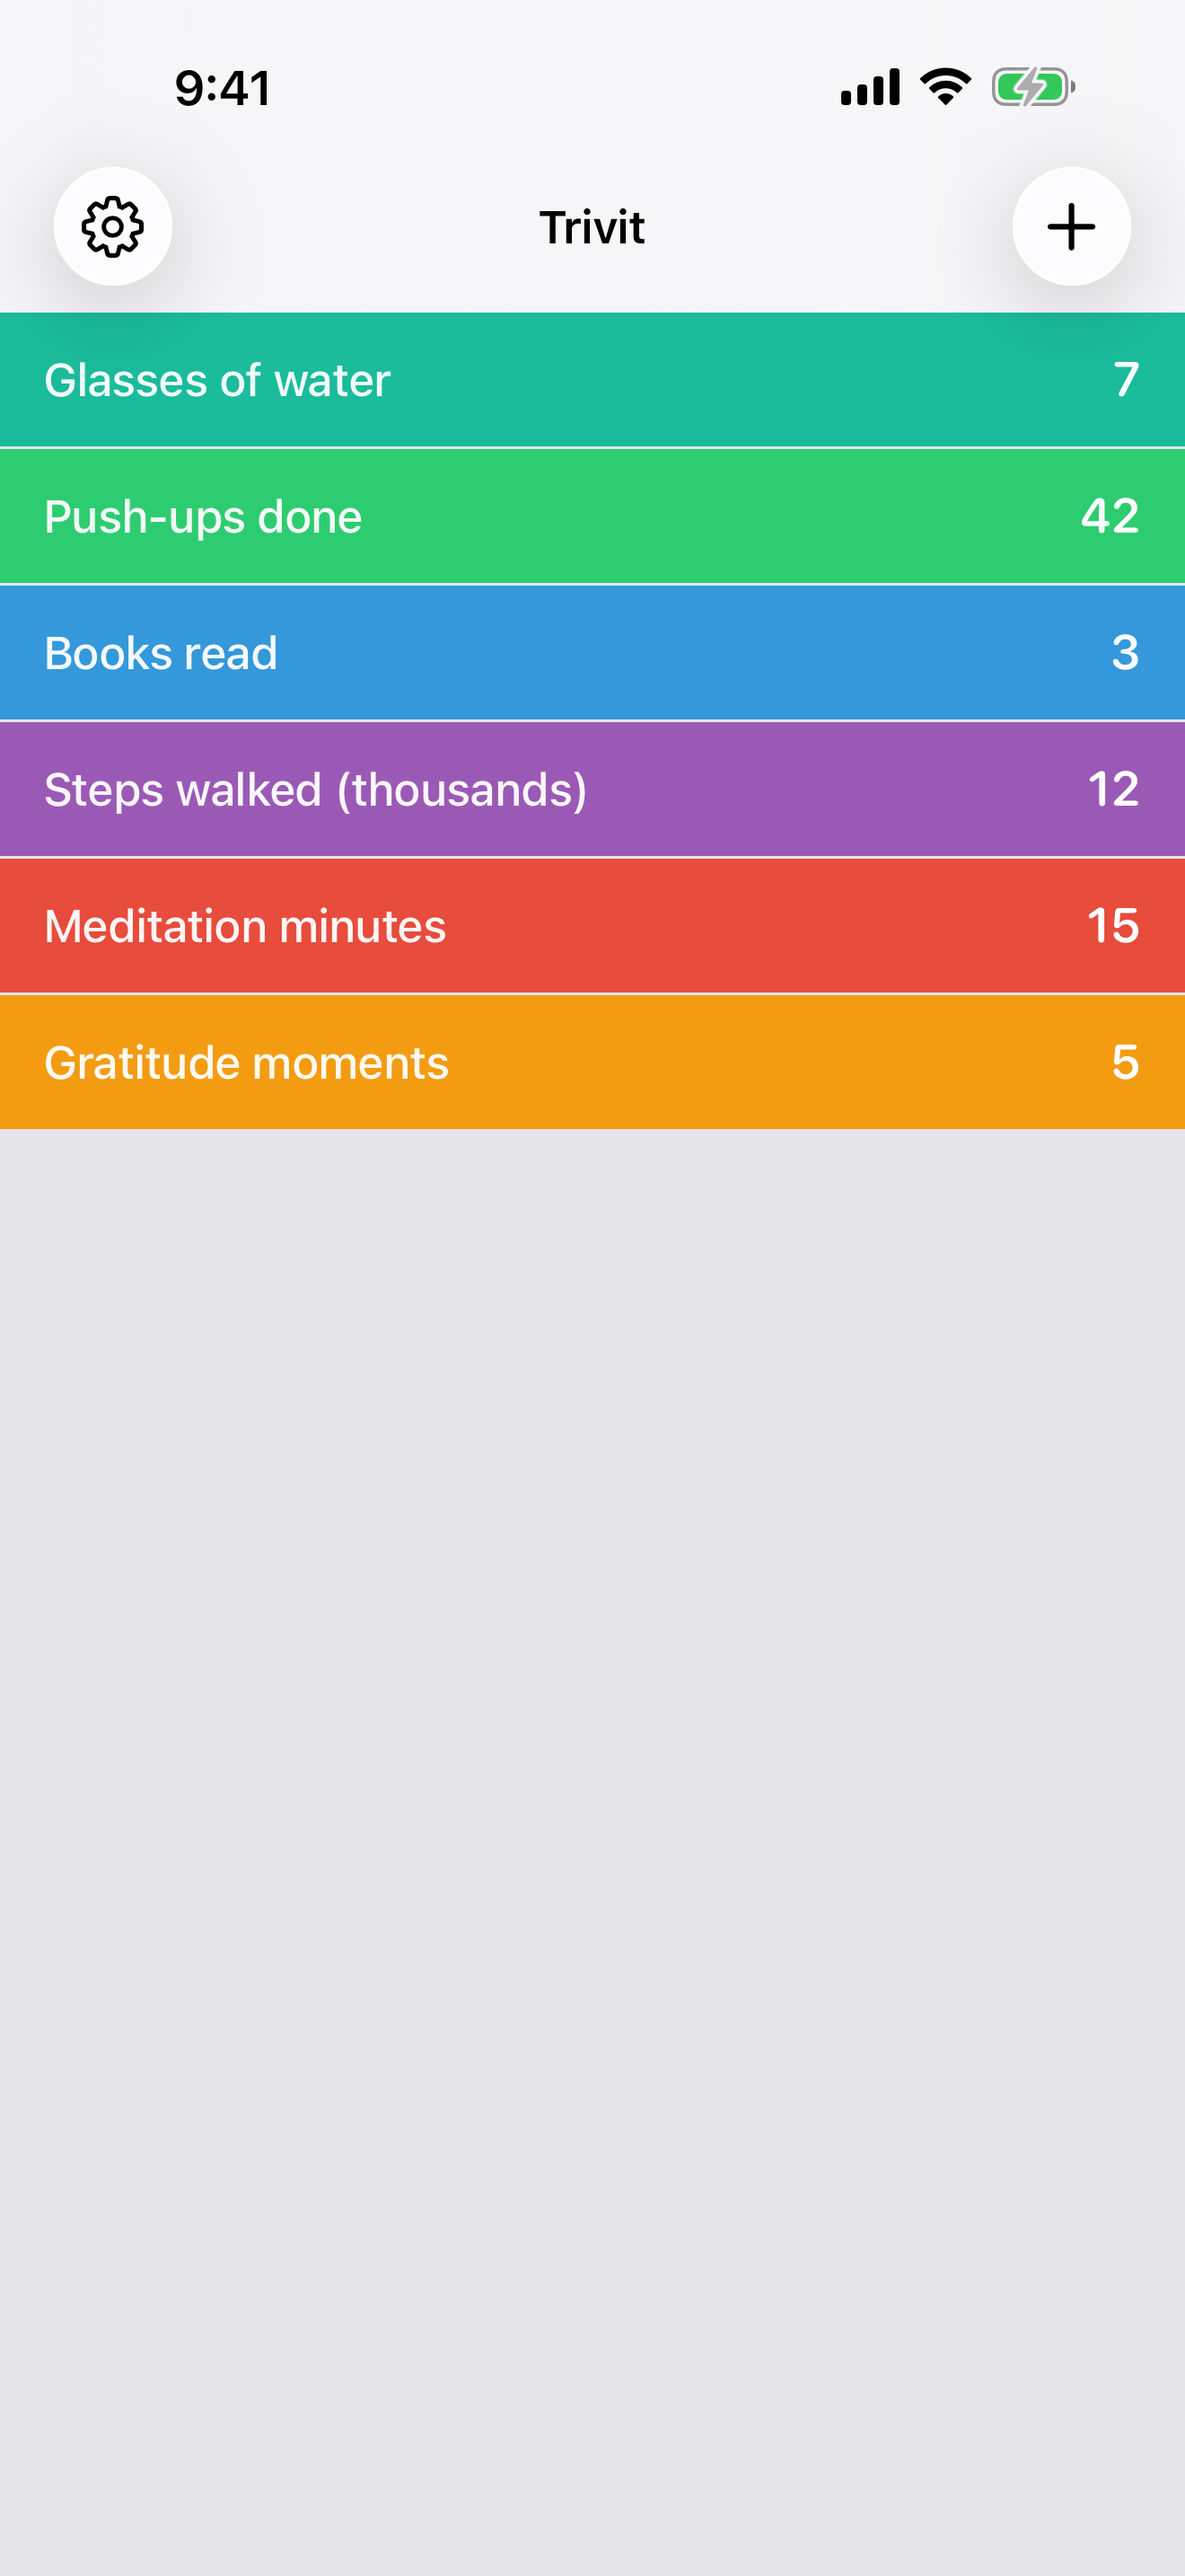
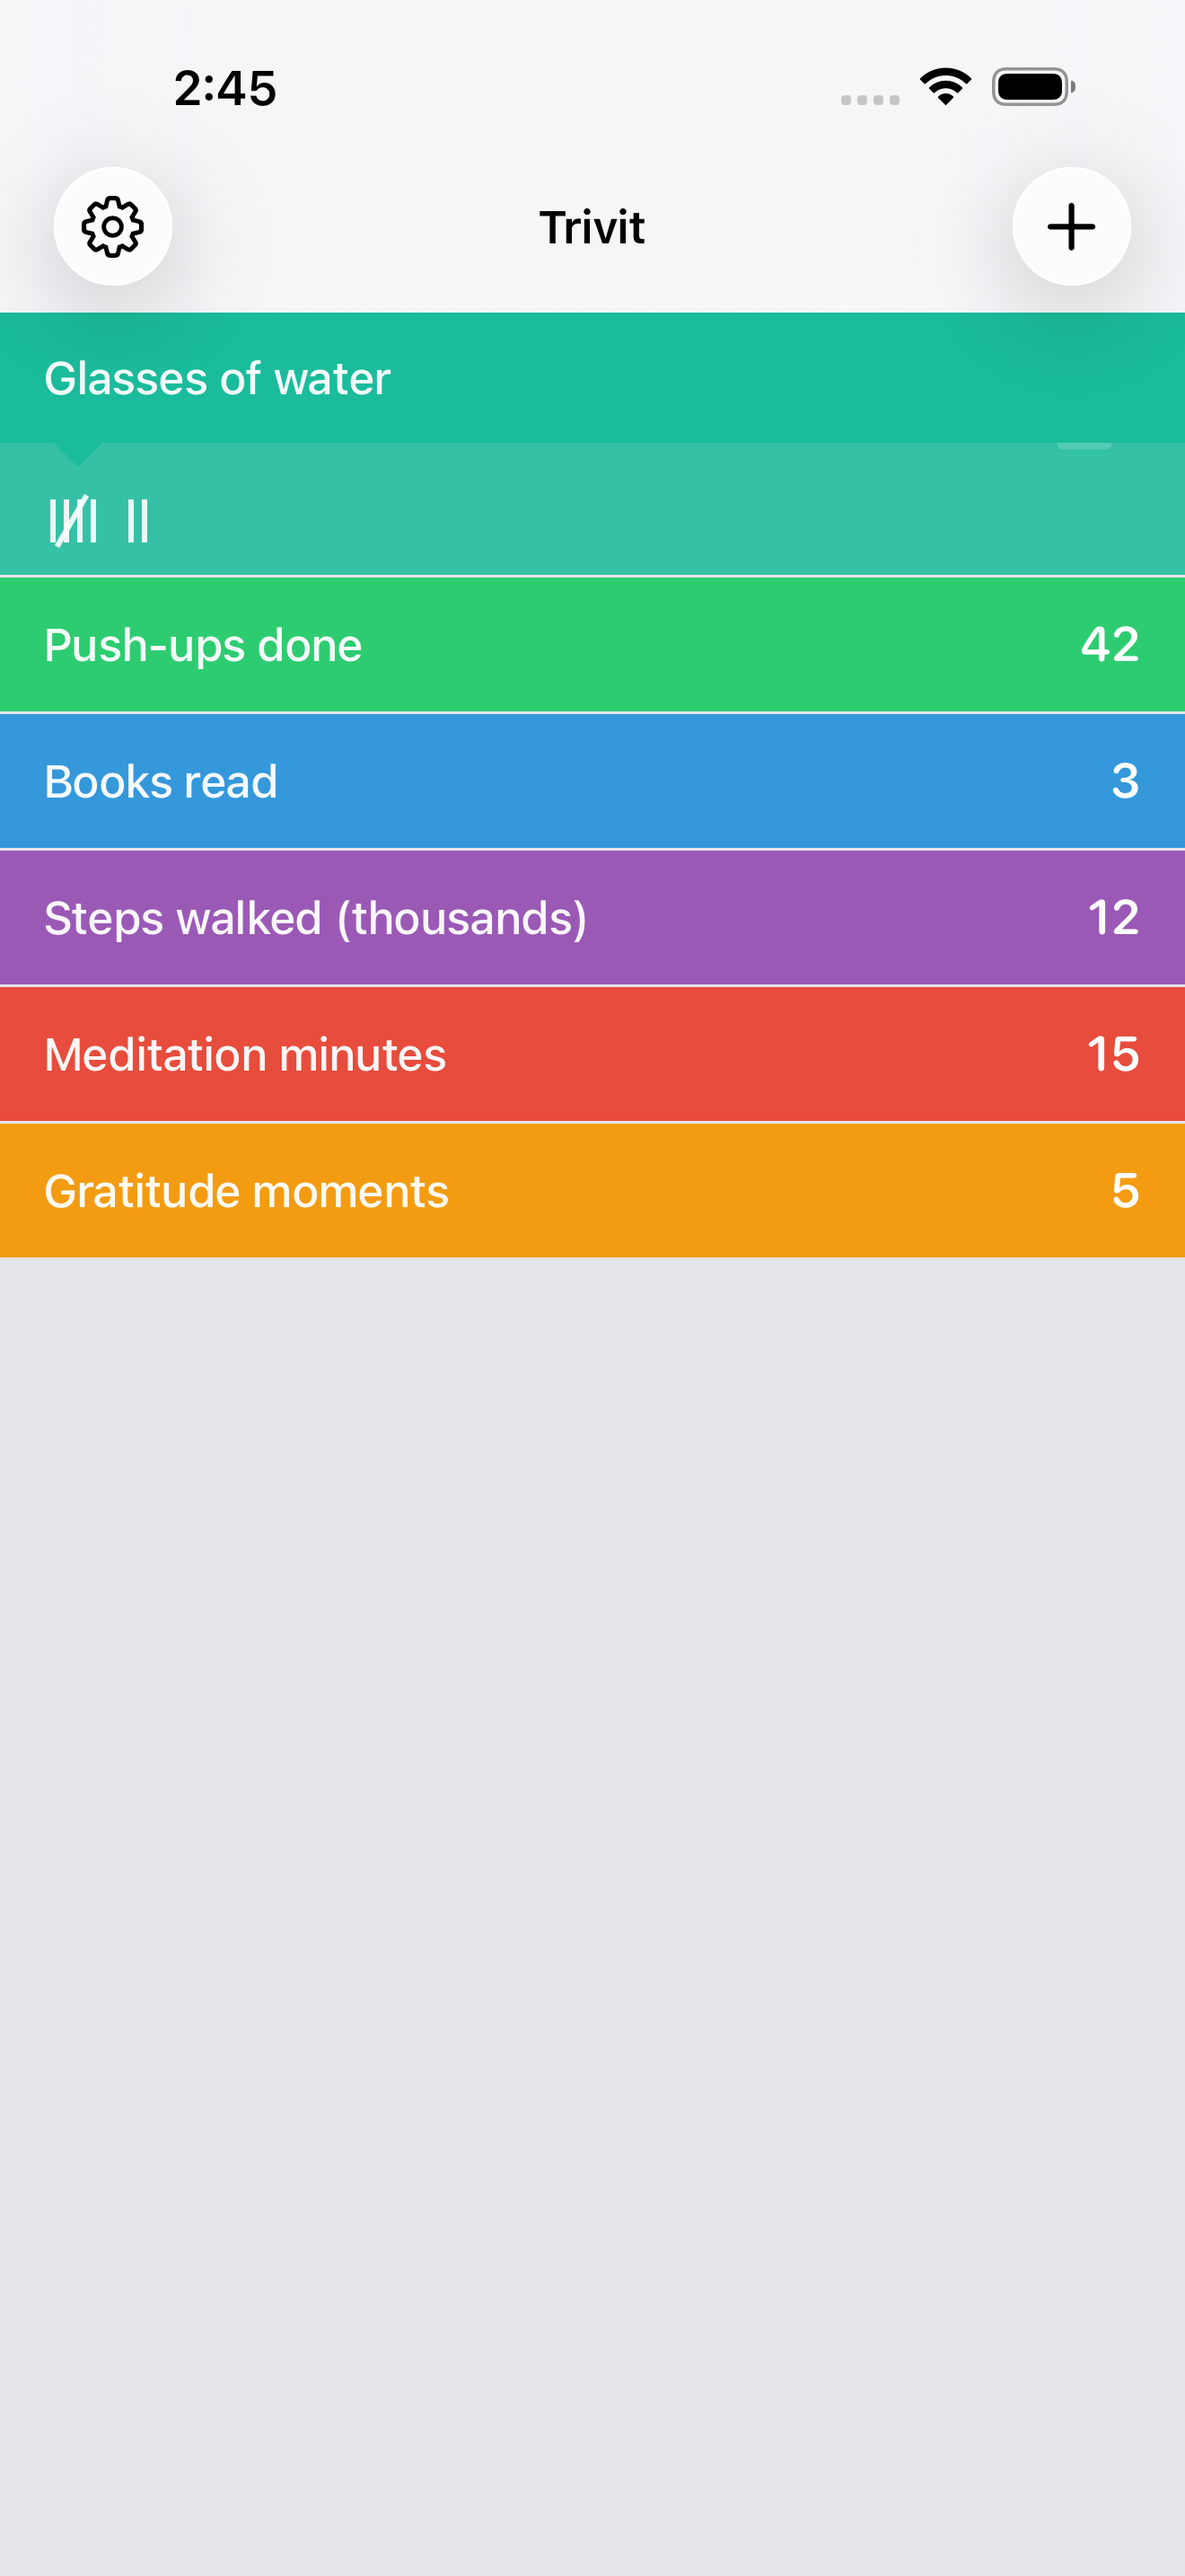
Bump to v5.0.1: add statistics screenshot, iPad & watch support
- Add statistics UI test (long-press → Statistics) with sample TallyEvent data
- Add iPad Pro 13-inch (M5) to screenshot devices
- Add watch_screenshots fastlane lane using simctl
- Update watch sample data to match iOS app
- Bump version to 5.0.1 (build 2) for App Store submission

diff --git a/trivit/TrivitApp.swift b/trivit/TrivitApp.swift
@@ -154,10 +154,13 @@ struct TrivitApp: App {
                 title: trivit.title,
                 count: trivit.count,
                 colorIndex: trivit.colorIndex,
-                isCollapsed: index > 0,  // First trivit expanded, rest collapsed
+                isCollapsed: index >= 3,  // First 3 trivits expanded, rest collapsed
                 sortOrder: index
             )
             context.insert(newTrivit)
+
+            // Generate TallyEvent records so statistics charts have data
+            generateSampleEvents(for: newTrivit, in: context)
         }
 
         // Save the context
@@ -170,5 +173,53 @@ struct TrivitApp: App {
 
         // Mark tutorial as seen for UI tests
         UserDefaults.standard.set(true, forKey: "hasSeenTutorial")
+    }
+
+    /// Generate realistic TallyEvent records spread across 90 days so statistics charts show data
+    private func generateSampleEvents(for trivit: Trivit, in context: ModelContext) {
+        let calendar = Calendar.current
+        let now = Date()
+
+        // Distribute the trivit's count across the last 90 days with realistic patterns
+        // More events on weekdays, varied hours, some days with no activity for streak gaps
+        var eventsToCreate = trivit.count
+        var day = 0
+
+        while eventsToCreate > 0 && day < 90 {
+            guard let date = calendar.date(byAdding: .day, value: -day, to: now) else {
+                day += 1
+                continue
+            }
+
+            // Skip some days randomly for realistic gaps (roughly 30% of days)
+            let dayHash = (day * 7 + trivit.colorIndex * 13) % 10
+            if dayHash < 3 && day > 0 {
+                day += 1
+                continue
+            }
+
+            // 1-3 events per active day
+            let eventsThisDay = min(eventsToCreate, ((day + trivit.colorIndex) % 3) + 1)
+
+            for i in 0..<eventsThisDay {
+                // Spread across different hours (8am-10pm) for hourly chart variety
+                let hour = 8 + ((day * 3 + i * 5 + trivit.colorIndex * 2) % 14)
+                let minute = (day * 7 + i * 17) % 60
+
+                var components = calendar.dateComponents([.year, .month, .day], from: date)
+                components.hour = hour
+                components.minute = minute
+
+                if let eventDate = calendar.date(from: components) {
+                    let event = TallyEvent(trivitId: trivit.id, timestamp: eventDate, delta: 1)
+                    context.insert(event)
+                }
+            }
+
+            eventsToCreate -= eventsThisDay
+            day += 1
+        }
+
+        print("📸 Generated \(trivit.count - eventsToCreate) events for '\(trivit.title)'")
     }
 }

diff --git a/TrivitUITests/TrivitUITests.swift b/TrivitUITests/TrivitUITests.swift
@@ -57,46 +57,37 @@ final class TrivitUITests: XCTestCase {
         snapshot("02_ExpandedTrivit")
     }
 
-    func testScreenshot03_Settings() throws {
+    func testScreenshot03_Statistics() throws {
         let mainList = app.navigationBars["Trivit"]
         XCTAssertTrue(mainList.waitForExistence(timeout: 5), "Main list should appear")
 
         dismissTutorialIfNeeded()
-        openSettings()
+        Thread.sleep(forTimeInterval: 0.5)
 
-        snapshot("03_Settings")
-    }
+        // Long-press the first trivit title to trigger context menu
+        let firstTitle = app.staticTexts["Glasses of water"]
+        XCTAssertTrue(firstTitle.waitForExistence(timeout: 3), "First trivit title should exist")
+        firstTitle.press(forDuration: 1.5)
 
-    func testScreenshot04_Statistics() throws {
-        let mainList = app.navigationBars["Trivit"]
-        XCTAssertTrue(mainList.waitForExistence(timeout: 5), "Main list should appear")
-
-        dismissTutorialIfNeeded()
-        openSettings()
-
-        // Navigate to Statistics from Settings
+        // Tap Statistics in context menu
         let statisticsButton = app.buttons["Statistics"]
-        if statisticsButton.waitForExistence(timeout: 3) {
-            statisticsButton.tap()
-            Thread.sleep(forTimeInterval: 0.5)
-            snapshot("04_Statistics")
-        }
+        XCTAssertTrue(statisticsButton.waitForExistence(timeout: 5), "Statistics menu item should appear")
+        statisticsButton.tap()
+
+        // Wait for Statistics sheet to appear
+        Thread.sleep(forTimeInterval: 1.0)
+
+        snapshot("03_Statistics")
     }
 
-    func testScreenshot05_History() throws {
+    func testScreenshot04_Settings() throws {
         let mainList = app.navigationBars["Trivit"]
         XCTAssertTrue(mainList.waitForExistence(timeout: 5), "Main list should appear")
 
         dismissTutorialIfNeeded()
         openSettings()
 
-        // Navigate to History from Settings
-        let historyButton = app.buttons["History"]
-        if historyButton.waitForExistence(timeout: 3) {
-            historyButton.tap()
-            Thread.sleep(forTimeInterval: 0.5)
-            snapshot("05_History")
-        }
+        snapshot("04_Settings")
     }
 
     // MARK: - Helper Methods
@@ -116,7 +107,6 @@ final class TrivitUITests: XCTestCase {
         Thread.sleep(forTimeInterval: 0.3)
 
         // Find and tap the first trivit row to expand it
-        // The trivit rows are in a ScrollView with LazyVStack
         let firstCell = app.scrollViews.firstMatch.otherElements.firstMatch
         if firstCell.exists {
             firstCell.tap()

diff --git a/trivit/Utilities/BuildInfo.swift b/trivit/Utilities/BuildInfo.swift
@@ -1,0 +1,53 @@
+//
+//  BuildInfo.swift
+//  Trivit
+//
+//  Build information including commit hash for debugging
+//
+
+import Foundation
+
+/// Provides build information including git commit hash
+/// Commit hash is only shown in Debug and TestFlight builds
+enum BuildInfo {
+    /// The git commit hash (short form) captured at build time
+    /// This value is set by a build script phase
+    static var commitHash: String {
+        // Read from Info.plist where it's set by the build script
+        Bundle.main.infoDictionary?["GIT_COMMIT_HASH"] as? String ?? "unknown"
+    }
+
+    /// Returns true if the app is running in a TestFlight environment
+    static var isTestFlight: Bool {
+        guard let receiptURL = Bundle.main.appStoreReceiptURL else {
+            return false
+        }
+        return receiptURL.lastPathComponent == "sandboxReceipt"
+    }
+
+    /// Returns true if this is a debug build
+    static var isDebug: Bool {
+        #if DEBUG
+        return true
+        #else
+        return false
+        #endif
+    }
+
+    /// Returns true if commit hash should be displayed (Debug or TestFlight)
+    static var shouldShowCommitHash: Bool {
+        isDebug || isTestFlight
+    }
+
+    /// Full version string including commit hash for Debug/TestFlight
+    static var fullVersionString: String {
+        let version = Bundle.main.infoDictionary?["CFBundleShortVersionString"] as? String ?? "1.0"
+        let build = Bundle.main.infoDictionary?["CFBundleVersion"] as? String ?? "1"
+
+        if shouldShowCommitHash {
+            return "\(version) (\(build)) • \(commitHash)"
+        } else {
+            return "\(version) (\(build))"
+        }
+    }
+}

diff --git a/trivit Watch App/TrivitWatchApp.swift b/trivit Watch App/TrivitWatchApp.swift
@@ -39,9 +39,10 @@ struct TrivitWatchApp: App {
                 logger.info("⌚ Sample data mode - creating sample trivits")
                 let context = container.mainContext
                 let sampleTrivits = [
-                    Trivit(title: "Coffee", count: 3, colorIndex: 0),
-                    Trivit(title: "Workouts", count: 7, colorIndex: 2),
-                    Trivit(title: "Steps", count: 5, colorIndex: 4)
+                    Trivit(title: "Glasses of water", count: 7, colorIndex: 0, isCollapsed: false, sortOrder: 0),
+                    Trivit(title: "Push-ups done", count: 42, colorIndex: 1, isCollapsed: false, sortOrder: 1),
+                    Trivit(title: "Books read", count: 3, colorIndex: 2, isCollapsed: true, sortOrder: 2),
+                    Trivit(title: "Meditation", count: 15, colorIndex: 4, isCollapsed: true, sortOrder: 3)
                 ]
                 for trivit in sampleTrivits {
                     context.insert(trivit)

diff --git a/fastlane/README.md b/fastlane/README.md
@@ -31,6 +31,14 @@ Generate App Store screenshots on all required device sizes
 
 Generate screenshots for iPhone only (faster)
 
+### ios watch_screenshots
+
+```sh
+[bundle exec] fastlane ios watch_screenshots
+```
+
+Generate Apple Watch screenshots via simctl
+
 ### ios deliver_metadata
 
 ```sh
